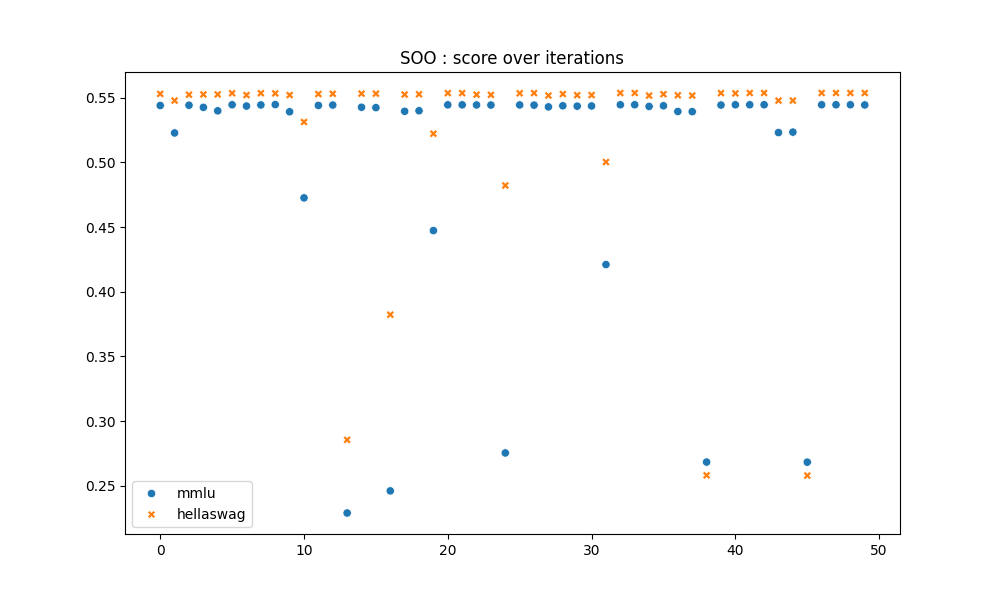
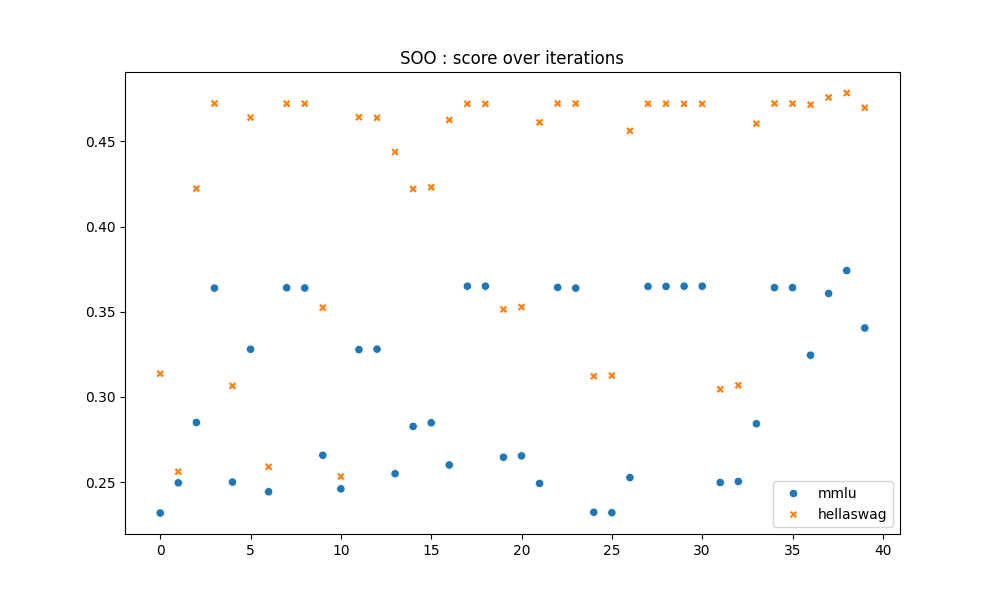
add temp results and analysis/plots

diff --git a/computation_experiments/bamsoo_analysis.py b/computation_experiments/bamsoo_analysis.py
@@ -4,7 +4,7 @@ import seaborn as sns
 import matplotlib.pyplot as plt
 from datetime import datetime
 
-exp_name = "soo_bis"
+exp_name = "bamsoo_bis"
 file_name = "results/" + exp_name + ".json"
 datas = []
 with open(file_name, 'r') as f:
@@ -12,7 +12,8 @@ with open(file_name, 'r') as f:
             datas.append(json.loads(line))
 
 data = pd.DataFrame(datas)
-
+state = data["info"].apply(lambda x : x["score_state"])
+data = data[state == "evaluated"]
 
 # Extract score 
 score = pd.DataFrame(data["score"])
@@ -20,7 +21,7 @@ score["mmlu"] = score["score"].apply(lambda x : x["mmlu"]["acc,none"])
 score["hellaswag"] = score["score"].apply(lambda x : x["hellaswag"]["acc,none"])
 #score["hellaswag_norm"] = score["score"].apply(lambda x : x["hellaswag"]["acc_norm,none"])
 score.pop("score")
-score.describe().to_csv("score/soo_score.csv")
+score.describe().to_csv("score/bamsoo_score.csv")
 print(score.describe())
 
 # Extract hp
@@ -30,5 +31,5 @@ Solution = pd.DataFrame(Solution.to_list(),columns=hp_names)
 
 plt.figure(figsize=(10, 6))
 sns.scatterplot(score)
-plt.title("SOO : score over iterations")
-plt.savefig(f"plots/soo_score_over_time.png")
+plt.title("BaMSOO : score over iterations")
+plt.savefig(f"plots/bamsoo_score_over_time.png")

diff --git a/computation_experiments/bo_analysis.py b/computation_experiments/bo_analysis.py
@@ -4,7 +4,7 @@ import seaborn as sns
 import matplotlib.pyplot as plt
 from datetime import datetime
 
-exp_name = "bo"
+exp_name = "bo_bis"
 file_name = "results/" + exp_name + ".json"
 datas = []
 with open(file_name, 'r') as f:
